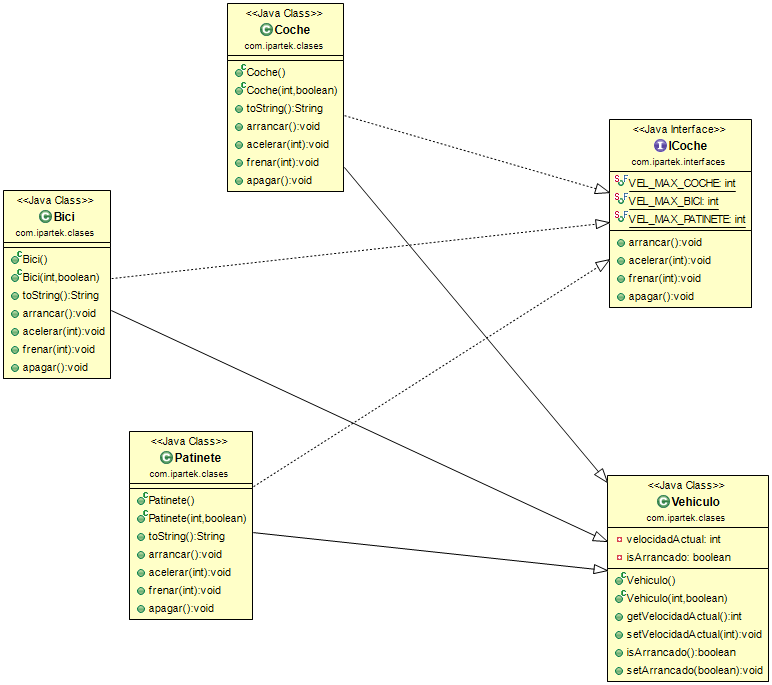
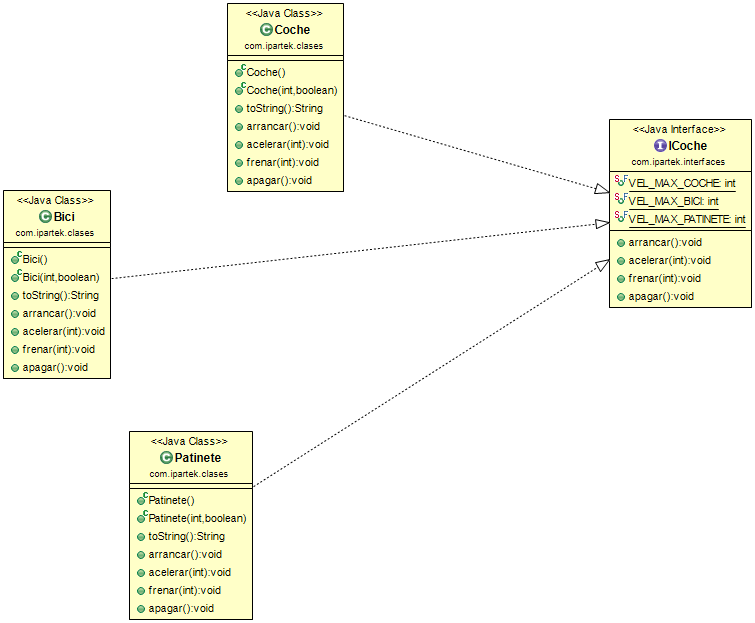
Documentacion añadida

diff --git a/src/com/ipartek/clases/Vehiculo.java b/src/com/ipartek/clases/Vehiculo.java
@@ -1,5 +1,13 @@
 package com.ipartek.clases;
 
+/**
+ * realizar las modificaciones pertinentes en el programa para que los atributos
+ * arrancado y velocidadActual se hereden de una clase vehiculo, y que no se
+ * pueda heredar de las clases patinete bici y coche
+ * 
+ * @author Julen Martin
+ *
+ */
 public class Vehiculo {
 
 	private int velocidadActual;
